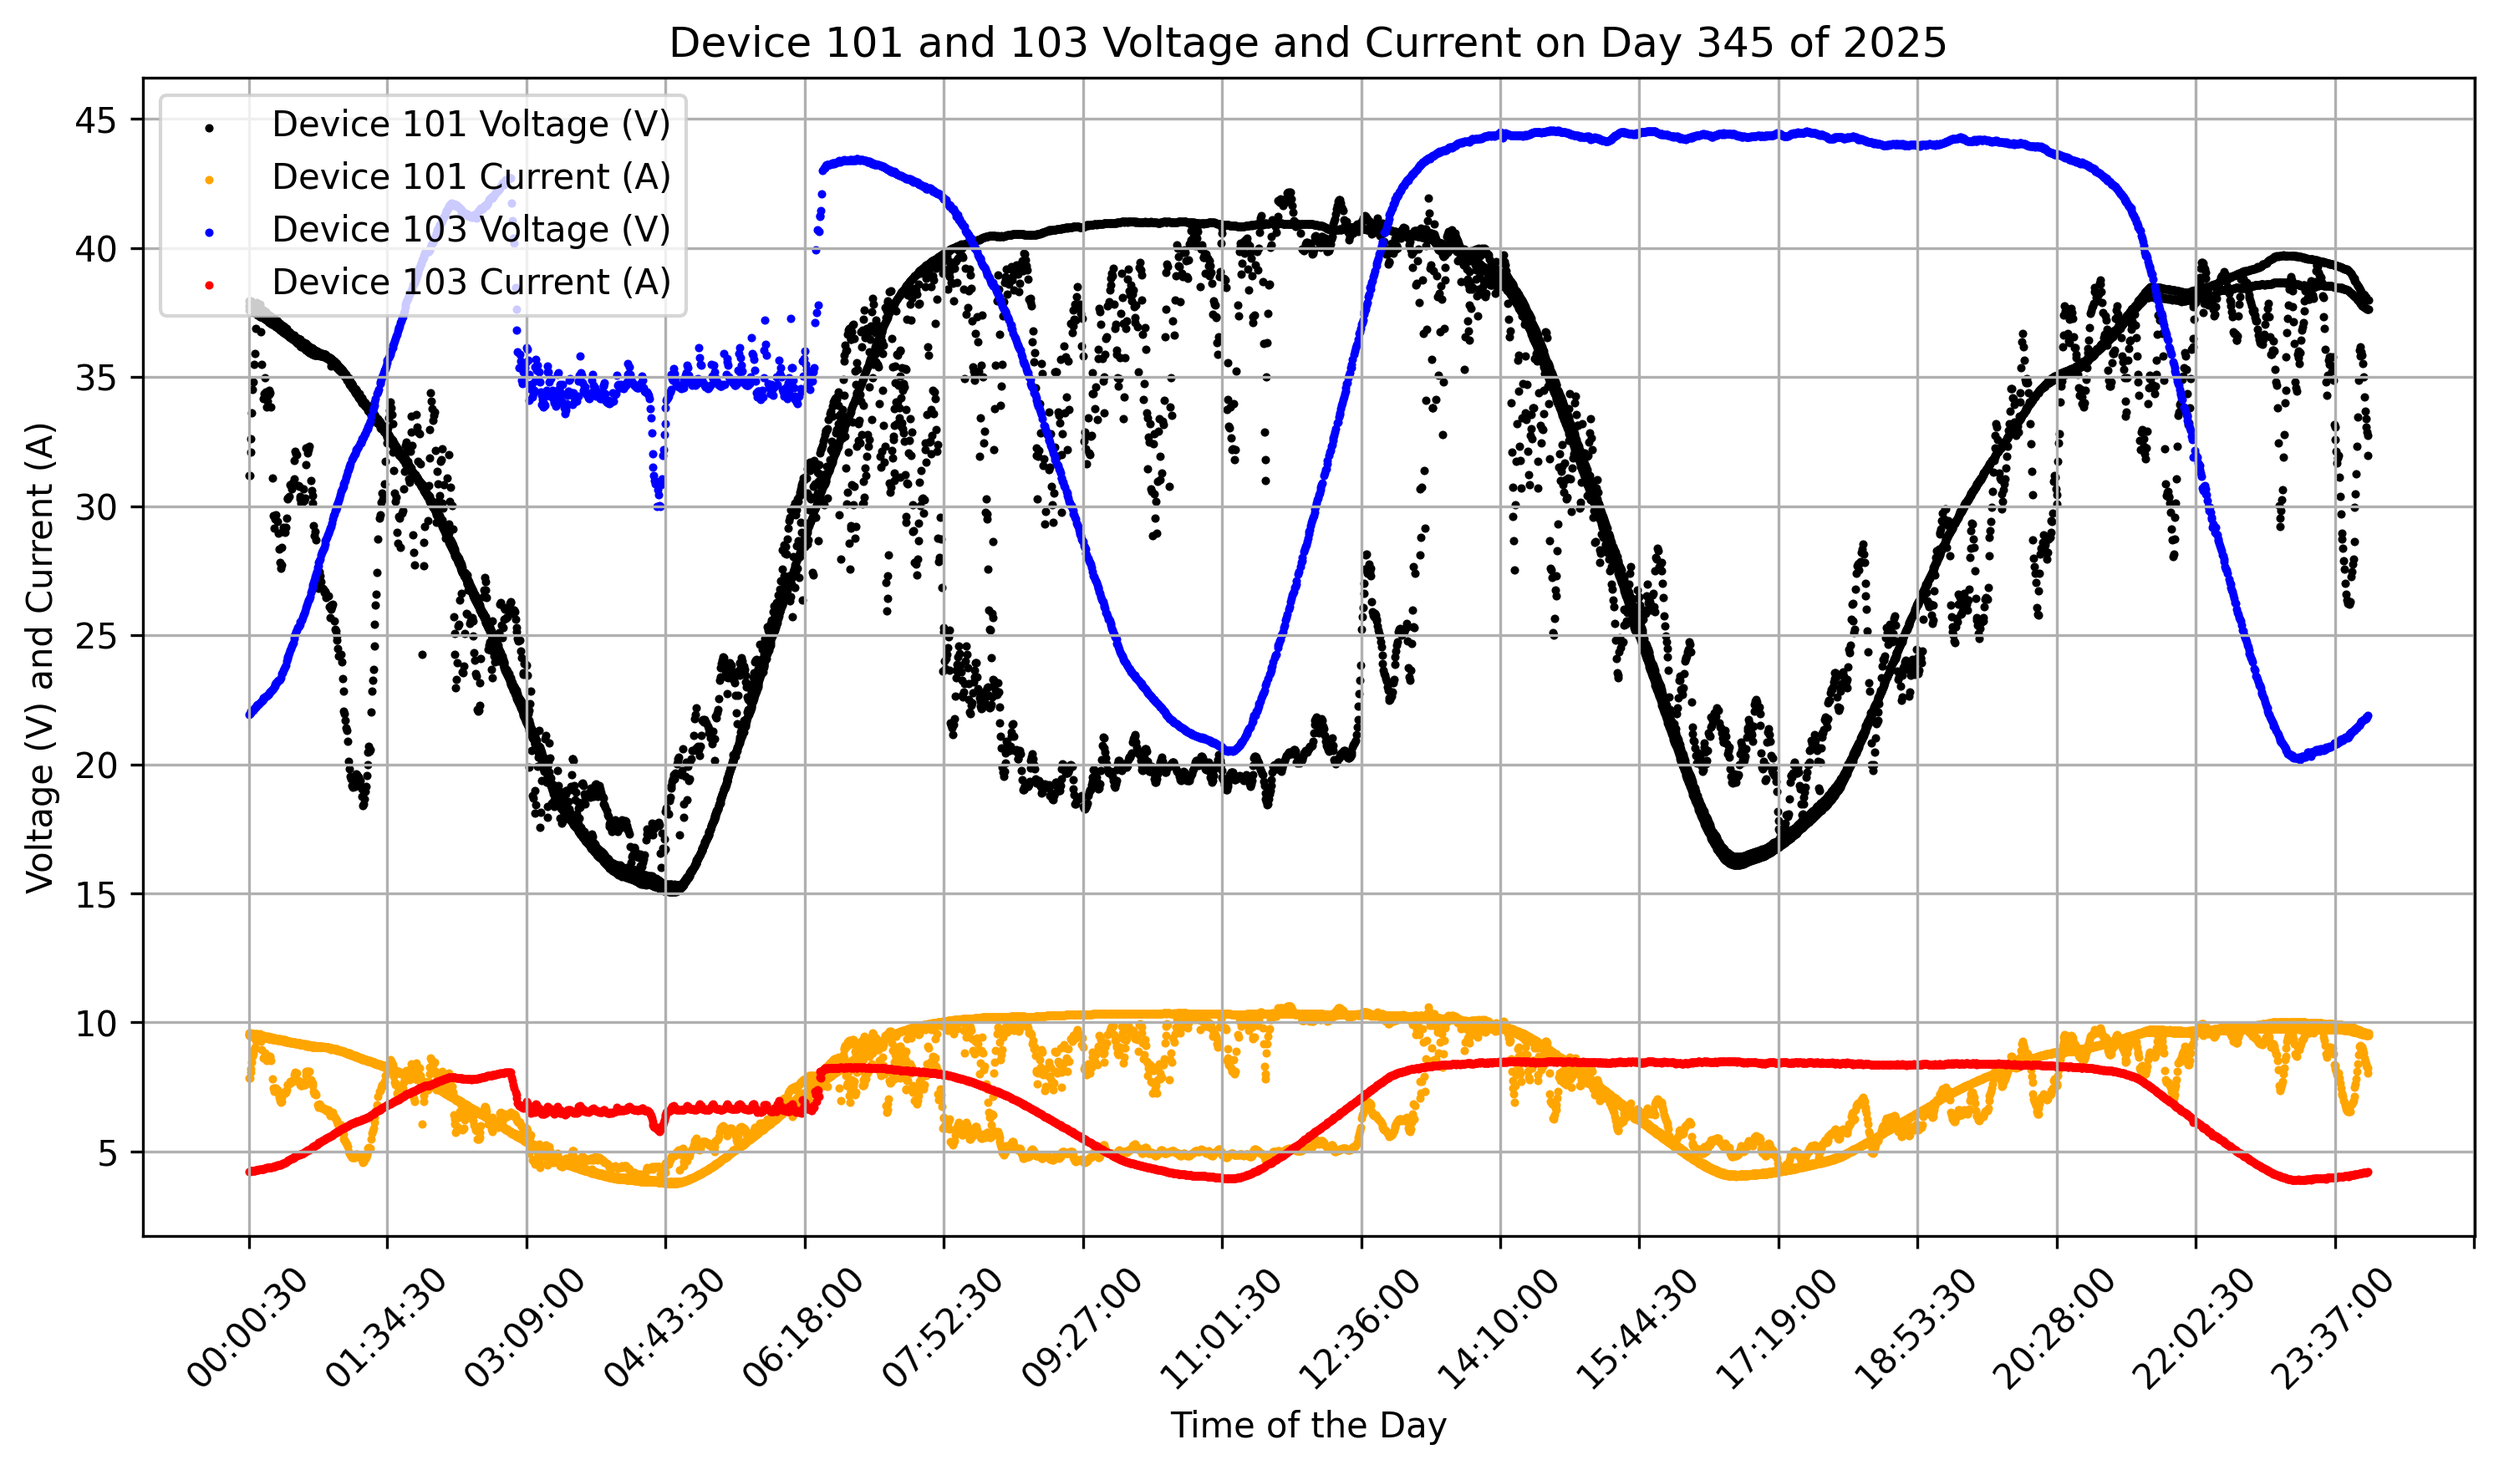
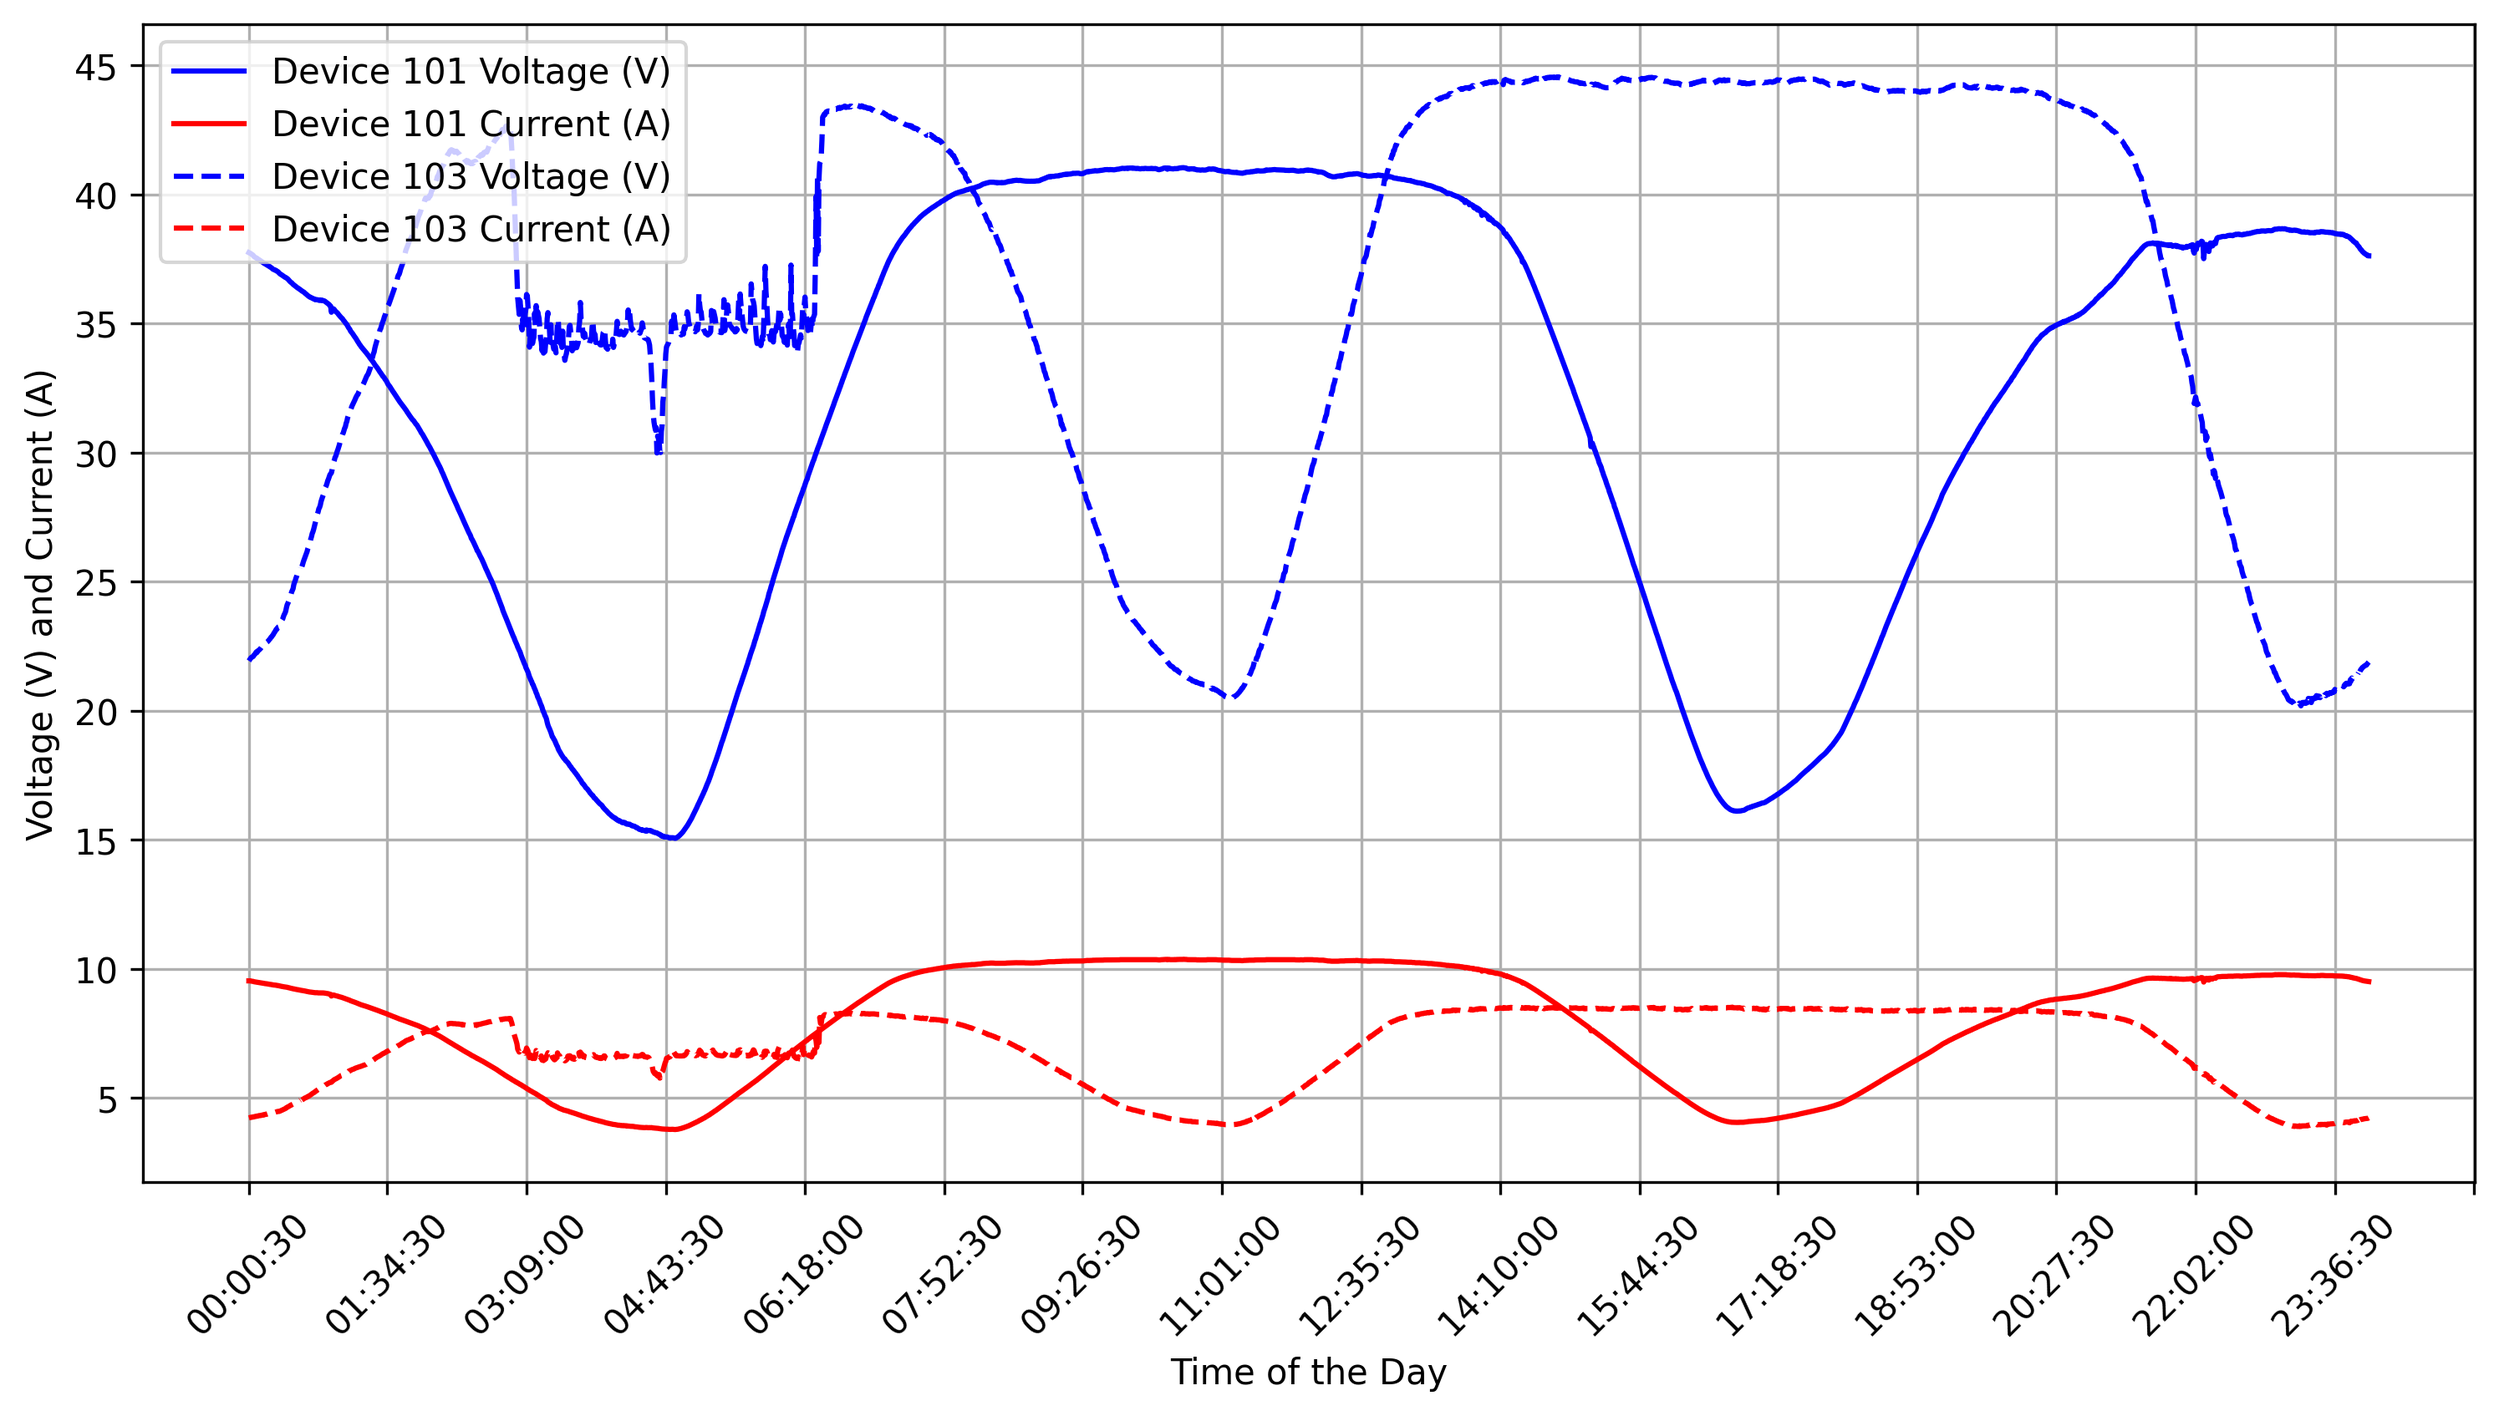
updated plots and added title on the plot

diff --git a/single_day_plot.py b/single_day_plot.py
@@ -61,7 +61,7 @@ plt.plot(time_101, voltage_101, label='Device 101 Voltage (V)', color='blue')
 plt.plot(time_101, current_101, label='Device 101 Current (A)', color='red')
 plt.plot(time_103, voltage_103, label='Device 103 Voltage (V)', color='blue', linestyle='--')
 plt.plot(time_103, current_103, label='Device 103 Current (A)', color='red', linestyle='--')
-
+plt.title(f'Panels Voltage and Current on Day {input_2} of 20{input_1}')
 plt.xlabel('Time of the Day')
 plt.ylabel('Voltage (V) and Current (A)')
 plt.legend(loc = 'best')
